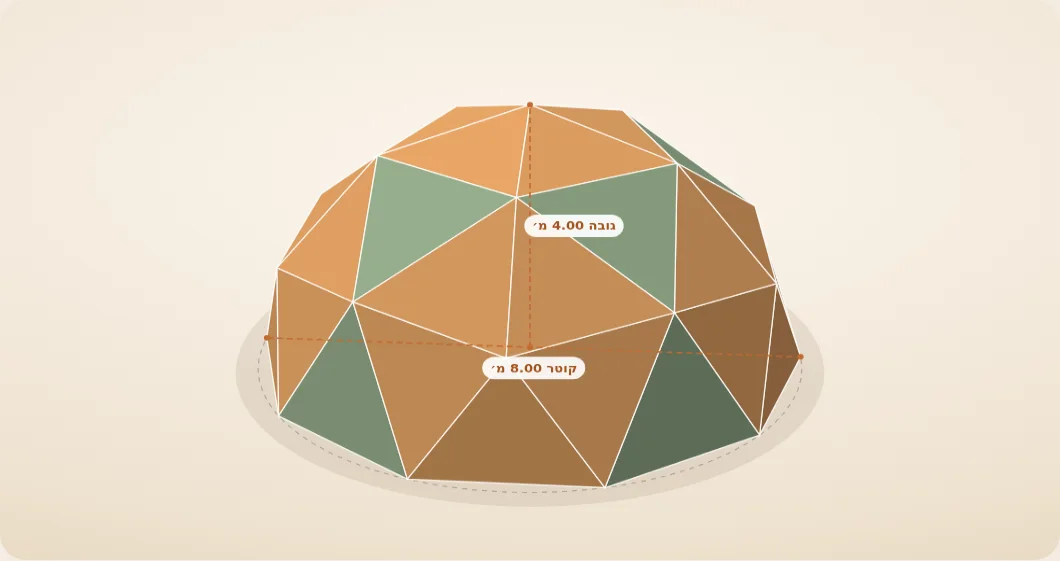
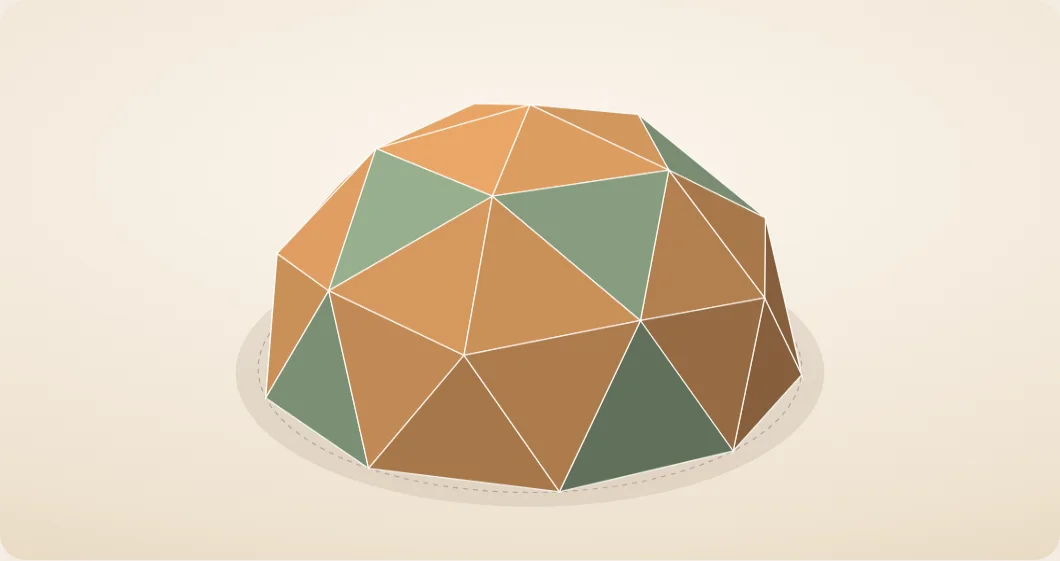
dome/quote: בלי שטחים ומידות; כיסוי 18,000 (במקום 20,000) והקמה 7,400 (במקום 8,000)
Claude-Session: https://claude.ai/code/session_01NjjH1yufZksXXxytAyR7nM

Changed region(s): [[0.2491, 0.1818, 0.7783, 0.8788]]

diff --git a/dome/quote/index.html b/dome/quote/index.html
@@ -2,8 +2,8 @@
 <html lang="he" dir="rtl"><head>
 <meta charset="utf-8">
 <meta name="viewport" content="width=device-width, initial-scale=1">
-<title>הצעת מחיר – כיסוי בד לכיפה גאודזית 2V בקוטר 8 מ׳ | Alternative Dream</title>
-<meta name="description" content="הצעת מחיר לכיסוי בד אוקספורד 600D לכיפה גאודזית 2V בקוטר 8 מ׳: 40 משולשים (30 שווי־שוקיים ו־10 שווי־צלעות), כ־93 מ״ר נטו.">
+<title>הצעת מחיר – כיפה גאודזית 2V בקוטר 8 מ׳ | Alternative Dream</title>
+<meta name="description" content="הצעת מחיר לכיסוי בד אוקספורד 600D והקמה של כיפה גאודזית 2V בקוטר 8 מ׳.">
 <meta name="robots" content="noindex,nofollow">
 <meta name="theme-color" content="#f3ece2">
 <link rel="stylesheet" href="../../assets/site.css?v=3">
@@ -110,17 +110,17 @@ main,.wrap{font-size:18px}
 <a class="skip-link" href="#spec">דילוג לתוכן</a>
 <nav class="nav">
 <a class="nav-brand" href="../../index.html"><img src="../../assets/16677773.png" alt="Alternative Dream"></a>
-<div class="nav-links"><a href="#spec">מפרט</a><a href="#qty">כמויות</a><a href="#price">הצעת המחיר</a></div>
+<div class="nav-links"><a href="#spec">מפרט</a><a href="#price">הצעת המחיר</a></div>
 <a class="btn btn-primary" href="https://wa.me/972515490099">דברו איתנו</a>
 </nav>
 <div class="wrap">
 <header class="q-hero">
 <div>
 <span class="kicker">הצעת מחיר</span>
-<h1>כיסוי בד לכיפה גאודזית <em>2V</em> בקוטר <bdi dir="ltr">8</bdi> מ׳</h1>
-<p class="lead">40 משולשי בד חתוכים ומוכנים להרכבה: 30 שווי־שוקיים ו־10 שווי־צלעות, בד אוקספורד 600D אטום למים.</p>
+<h1>כיפה גאודזית <em>2V</em> בקוטר <bdi dir="ltr">8</bdi> מ׳ – כיסוי בד והקמה</h1>
+<p class="lead">40 משולשי בד חתוכים ומוכנים להרכבה, בד אוקספורד 600D אטום למים, והקמה במקום.</p>
 <ul class="chips">
-<li>קוטר 8 מ׳ · גובה 4 מ׳</li><li>40 משולשים</li><li>בד אוקספורד 600D</li><li>כ־93 מ״ר בד נטו</li>
+<li>קוטר 8 מ׳</li><li>40 משולשים</li><li>בד אוקספורד 600D</li><li>כולל הקמה</li>
 </ul>
 <div class="q-meta">
 <div><b>תאריך</b><span id="qdate"></span></div>
@@ -138,26 +138,15 @@ main,.wrap{font-size:18px}
 <h2 class="sec-title">מה בדיוק מקבלים</h2>
 <div class="tw"><table class="spec-t" style="min-width:560px">
 <tr><th>מוצר</th><td>כיסוי בד לכיפה גאודזית 2V (חצי כדור) בקוטר 8 מ׳</td></tr>
-<tr><th>חלוקה</th><td>40 משולשים: 30 שווי־שוקיים (219 / 219 / 247 ס״מ) ו־10 שווי־צלעות (247 ס״מ)</td></tr>
+<tr><th>חלוקה</th><td>40 משולשים: 30 שווי־שוקיים ו־10 שווי־צלעות</td></tr>
 <tr><th>בד</th><td>בד אוקספורד 600D אטום למים</td></tr>
-<tr><th>תפרים</th><td>תוספת תפר של 4 ס״מ מכל צלע</td></tr>
-<tr><th>שטח</th><td>כ־93.3 מ״ר נטו · כ־104.8 מ״ר חיתוך כולל תפרים</td></tr>
-<tr><th>סימון</th><td>מספור כל משולש לפי מפת הרכבה (A1–A30 ו־B1–B10)</td></tr>
+<tr><th>תפרים</th><td>תפרים מחוזקים עם תוספת תפר</td></tr>
+<tr><th>סימון</th><td>מספור כל משולש לפי מפת הרכבה</td></tr>
+<tr><th>הקמה</th><td>הקמה במקום על ידינו</td></tr>
 </table></div>
 </section>
 
-<section class="sec" id="qty" style="padding-top:0">
-<span class="kicker">כמויות</span>
-<h2 class="sec-title">חיתוך וכמויות</h2>
-<div class="tw"><table class="qty" style="min-width:560px">
-<thead><tr><th>סוג</th><th>צלעות (ס״מ)</th><th class="n">כמות</th><th class="n">שטח נטו (מ״ר)</th><th class="n">שטח חיתוך כולל תפר (מ״ר)</th></tr></thead>
-<tbody>
-<tr><td>A – שווה־שוקיים</td><td>219 / 219 / 247</td><td class="n">30</td><td class="n">67.0</td><td class="n">75.3</td></tr>
-<tr><td>B – שווה־צלעות</td><td>247 / 247 / 247</td><td class="n">10</td><td class="n">26.5</td><td class="n">29.5</td></tr>
-<tr class="tot"><td>סה״כ</td><td></td><td class="n">40</td><td class="n">93.3</td><td class="n">104.8</td></tr>
-</tbody></table></div>
-<p class="muted" style="font-size:15px;margin:10px 0 0">הערכת בד גולמי: כ־55 מ׳ אורך בגליל ברוחב 280 ס״מ (ניצולת כ־68%), ללא תוספת בטחון.</p>
-</section>
+
 
 <section class="sec" id="price" style="padding-top:0">
 <span class="kicker">ההצעה</span>
@@ -165,18 +154,18 @@ main,.wrap{font-size:18px}
 <div class="price-card">
 <div>
 <ul>
-<li><svg width="22" height="22" viewBox="0 0 24 24" fill="none" stroke="currentColor" stroke-width="2.75" stroke-linecap="round" stroke-linejoin="round"><path d="M20 6 9 17l-5-5"></path></svg>40 משולשי בד חתוכים לפי תבניות הייצור</li>
+<li><svg width="22" height="22" viewBox="0 0 24 24" fill="none" stroke="currentColor" stroke-width="2.75" stroke-linecap="round" stroke-linejoin="round"><path d="M20 6 9 17l-5-5"></path></svg>כיסוי בד: 40 משולשים חתוכים ותפורים</li>
 <li><svg width="22" height="22" viewBox="0 0 24 24" fill="none" stroke="currentColor" stroke-width="2.75" stroke-linecap="round" stroke-linejoin="round"><path d="M20 6 9 17l-5-5"></path></svg>בד אוקספורד 600D אטום למים</li>
-<li><svg width="22" height="22" viewBox="0 0 24 24" fill="none" stroke="currentColor" stroke-width="2.75" stroke-linecap="round" stroke-linejoin="round"><path d="M20 6 9 17l-5-5"></path></svg>תפרים עם תוספת של 4 ס״מ</li>
+<li><svg width="22" height="22" viewBox="0 0 24 24" fill="none" stroke="currentColor" stroke-width="2.75" stroke-linecap="round" stroke-linejoin="round"><path d="M20 6 9 17l-5-5"></path></svg>הקמה במקום</li>
 <li><svg width="22" height="22" viewBox="0 0 24 24" fill="none" stroke="currentColor" stroke-width="2.75" stroke-linecap="round" stroke-linejoin="round"><path d="M20 6 9 17l-5-5"></path></svg>מספור ומפת הרכבה לכל משולש</li>
 </ul>
 </div>
 <div>
-<div class="muted" id="qlabel">מחיר כיסוי הבד</div>
+<div class="muted">סה״כ לתשלום</div>
 <div class="amount" id="amount"></div>
 <div class="muted" id="gross" style="margin-top:6px;font-size:18px"></div>
-<div class="tw"><table class="disc" aria-label="פירוט המחיר"><thead><tr><th></th><th>לפני מע״מ</th><th>מע״מ 18%</th><th>כולל מע״מ</th></tr></thead><tbody id="dbody"></tbody></table></div>
-<p class="price-note muted">זמן ייצור ואספקה ייקבע בשיחה עם נציג. ההצעה בתוקף ל־30 יום.</p>
+<div class="tw"><table class="disc" aria-label="פירוט המחיר"><thead><tr><th></th><th>מחיר מקורי</th><th>אחרי הנחה</th></tr></thead><tbody id="dbody"></tbody></table></div>
+<p class="price-note muted">המחירים כוללים מע״מ. זמן ייצור ואספקה ייקבע בשיחה עם נציג. ההצעה בתוקף ל־30 יום.</p>
 <div class="pc-actions">
 <a id="wa" class="btn btn-primary" href="#">אישור ההצעה בוואטסאפ</a>
 <button class="btn btn-secondary" type="button" onclick="print()">הדפסה / PDF</button>
@@ -199,18 +188,17 @@ main,.wrap{font-size:18px}
 </div>
 <script>
 (function(){
-// Prices are VAT-inclusive; VAT is taken off as 18% of the price (subtraction method). Fill ORIG (list) and FINAL (after discount) in shekels.
-var ORIG=null,FINAL=null,RATE=.18;
+// Prices are VAT-inclusive; VAT is taken off as 18% of the price (subtraction method).
+var RATE=.18,ITEMS=[['כיסוי הבד',20000,18000],['הקמה',8000,7400]];
 var r=function(n){return Math.round(n*100)/100};
 var f=function(n){return n.toLocaleString('en-US',{minimumFractionDigits:Number.isInteger(n)?0:2,maximumFractionDigits:2})+' ₪'};
-var DASH='<span class="muted">₪ ______</span>';
-function row(title,price,cls){var v=price==null?null:r(price*RATE),n=price==null?null:r(price-v);
-  return '<tr class="'+cls+'"><th>'+title+'</th><td>'+(n==null?'—':f(n))+'</td><td>'+(v==null?'—':f(v))+'</td><td>'+(price==null?'—':f(price))+'</td></tr>'}
-var shown=FINAL!=null?FINAL:ORIG;
-document.getElementById('amount').innerHTML=shown==null?DASH+' <small>כולל מע״מ</small>':f(shown)+' <small>כולל מע״מ</small>';
-document.getElementById('gross').textContent=shown==null?'':f(r(shown-shown*RATE))+' לפני מע״מ';
-document.getElementById('dbody').innerHTML=row('מחיר מקורי',ORIG,'')+row('סופי לתשלום',FINAL,'tot');
-document.getElementById('wa').href='https://wa.me/972515490099?text='+encodeURIComponent('שלום, אני רוצה לאשר הצעת מחיר לכיסוי בד לכיפה גאודזית 2V בקוטר 8 מ׳');
+var lo=0,fo=0,rows='';
+ITEMS.forEach(function(it){lo+=it[1];fo+=it[2];rows+='<tr><th>'+it[0]+'</th><td><s>'+f(it[1])+'</s></td><td>'+f(it[2])+'</td></tr>'});
+rows+='<tr class="tot"><th>סה״כ</th><td><s>'+f(lo)+'</s></td><td>'+f(fo)+'</td></tr>';
+document.getElementById('dbody').innerHTML=rows;
+document.getElementById('amount').innerHTML=f(fo)+' <small>כולל מע״מ</small>';
+document.getElementById('gross').textContent=f(r(fo-fo*RATE))+' לפני מע״מ · חיסכון של '+f(lo-fo)+' כולל מע״מ';
+document.getElementById('wa').href='https://wa.me/972515490099?text='+encodeURIComponent('שלום, אני רוצה לאשר הצעת מחיר לכיפה גאודזית 2V בקוטר 8 מ׳ – כיסוי בד והקמה');
 var d=new Date();document.getElementById('qdate').textContent=d.getDate()+'.'+(d.getMonth()+1)+'.'+d.getFullYear();
 })();
 </script>
